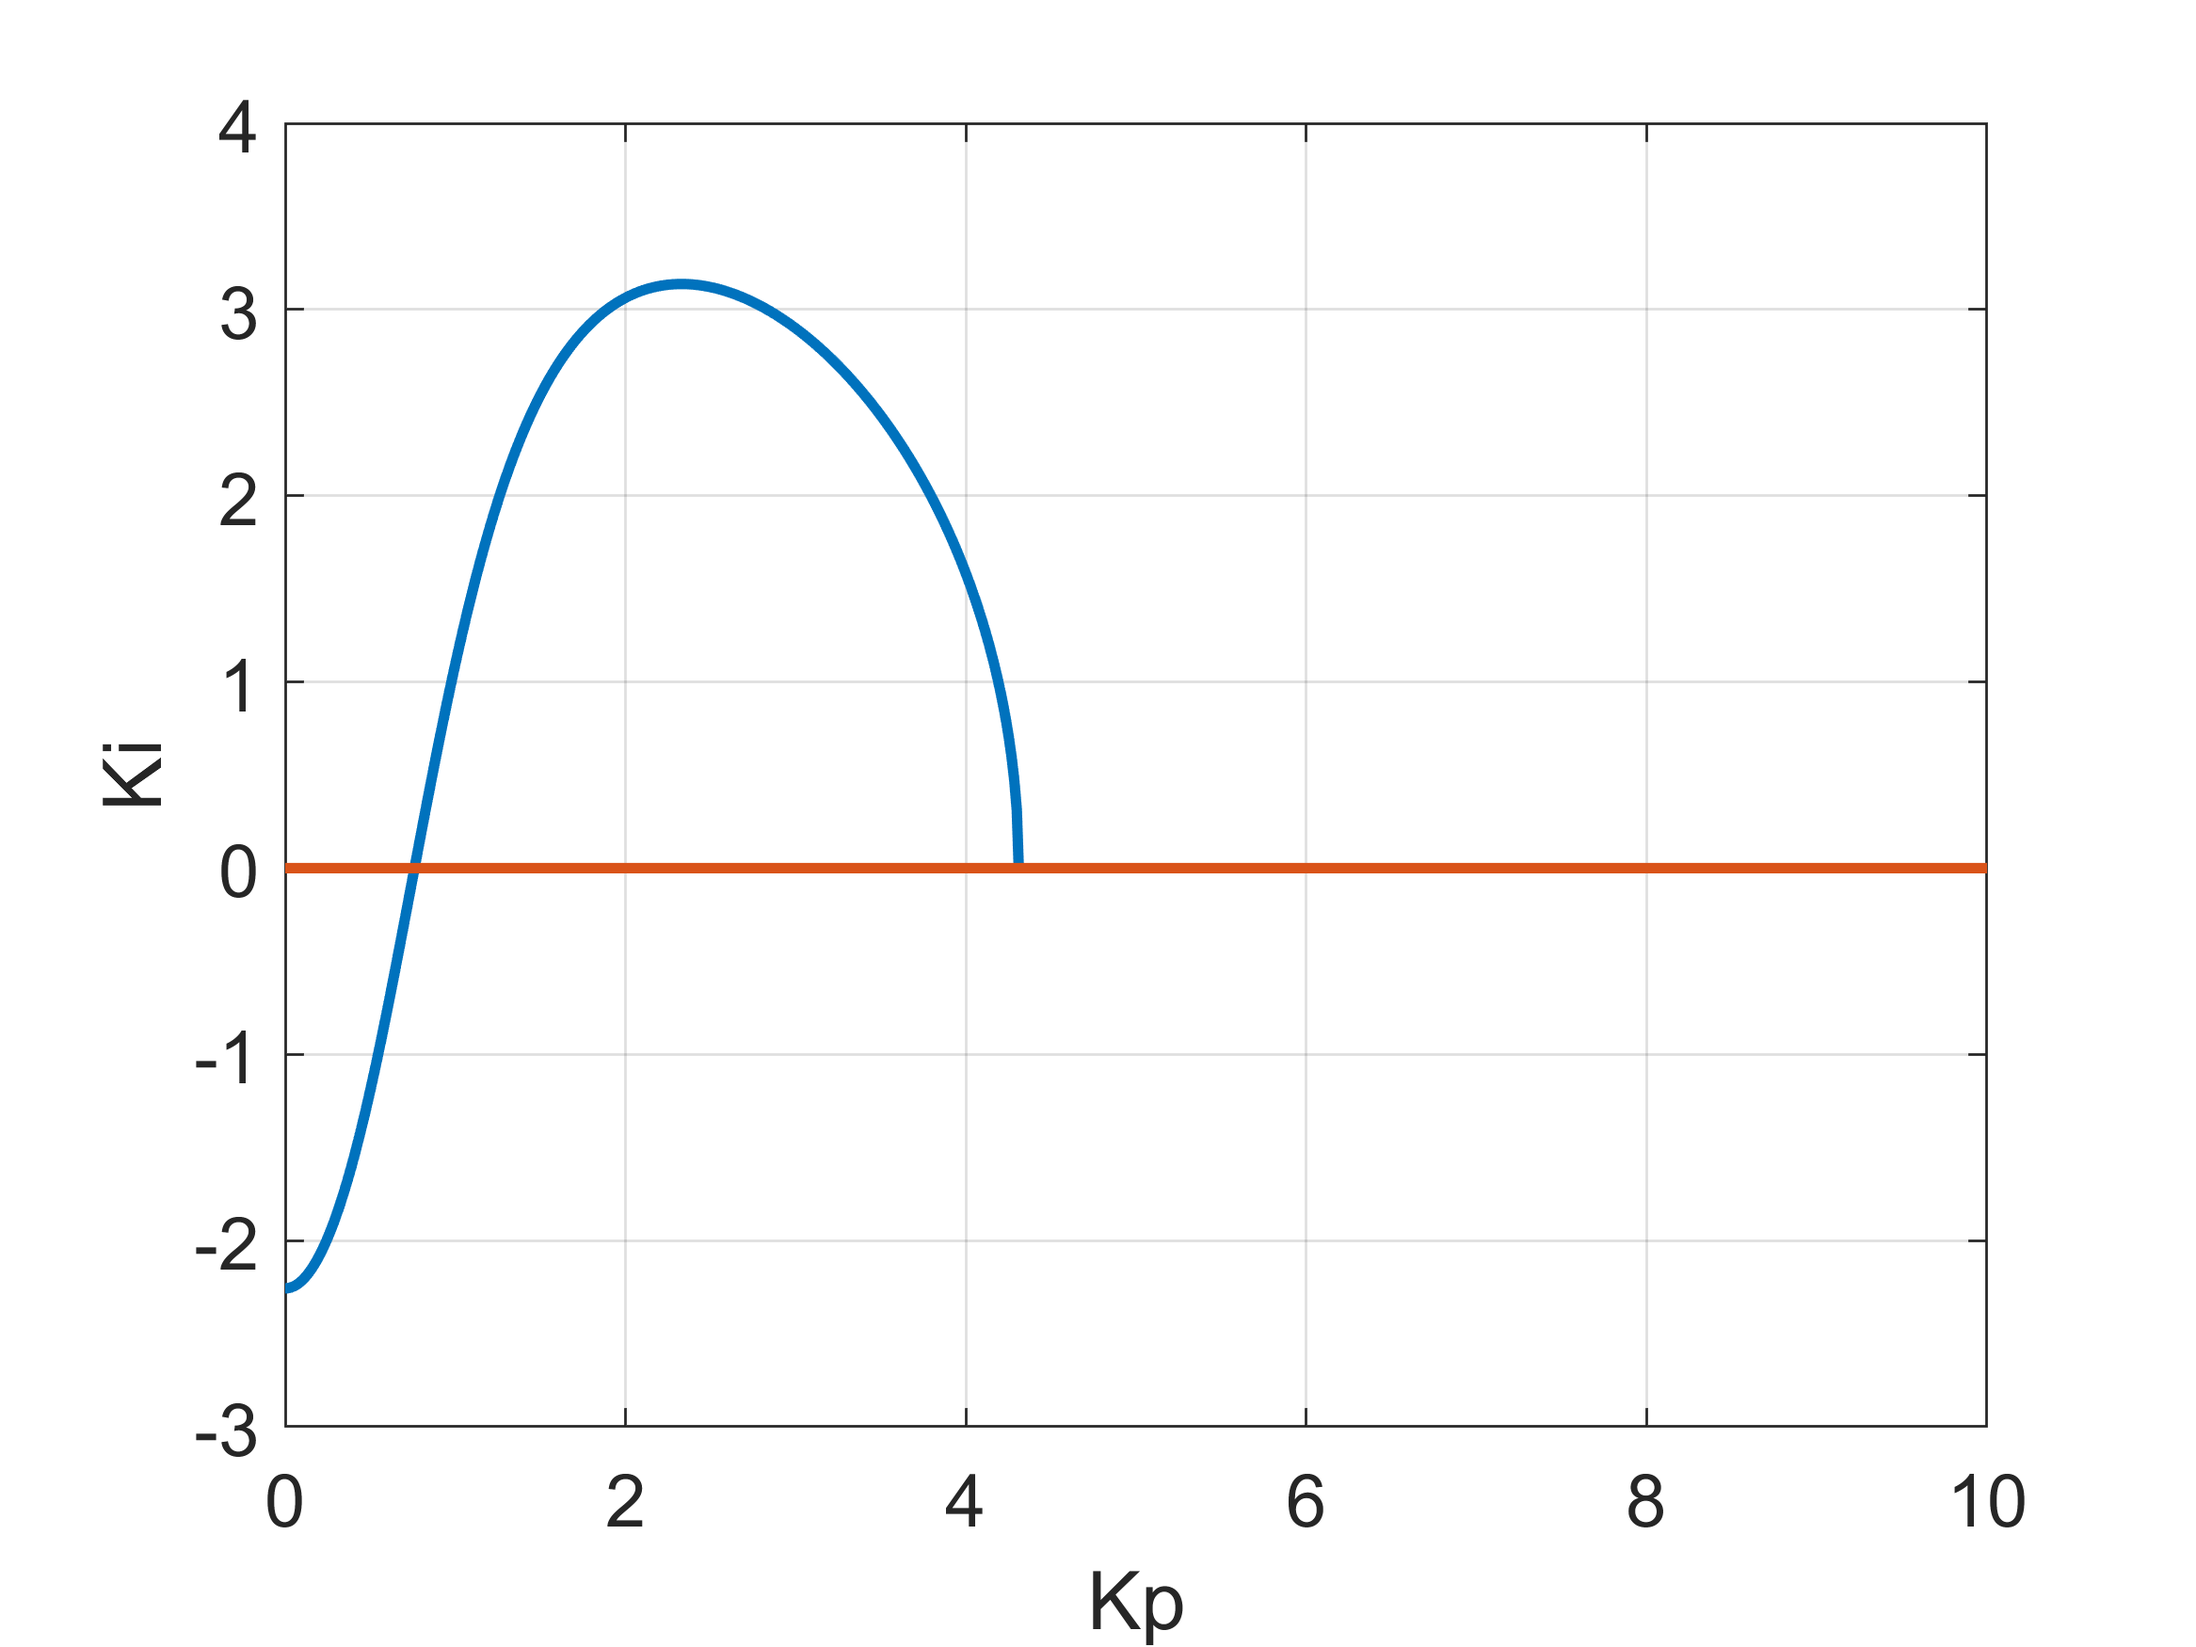
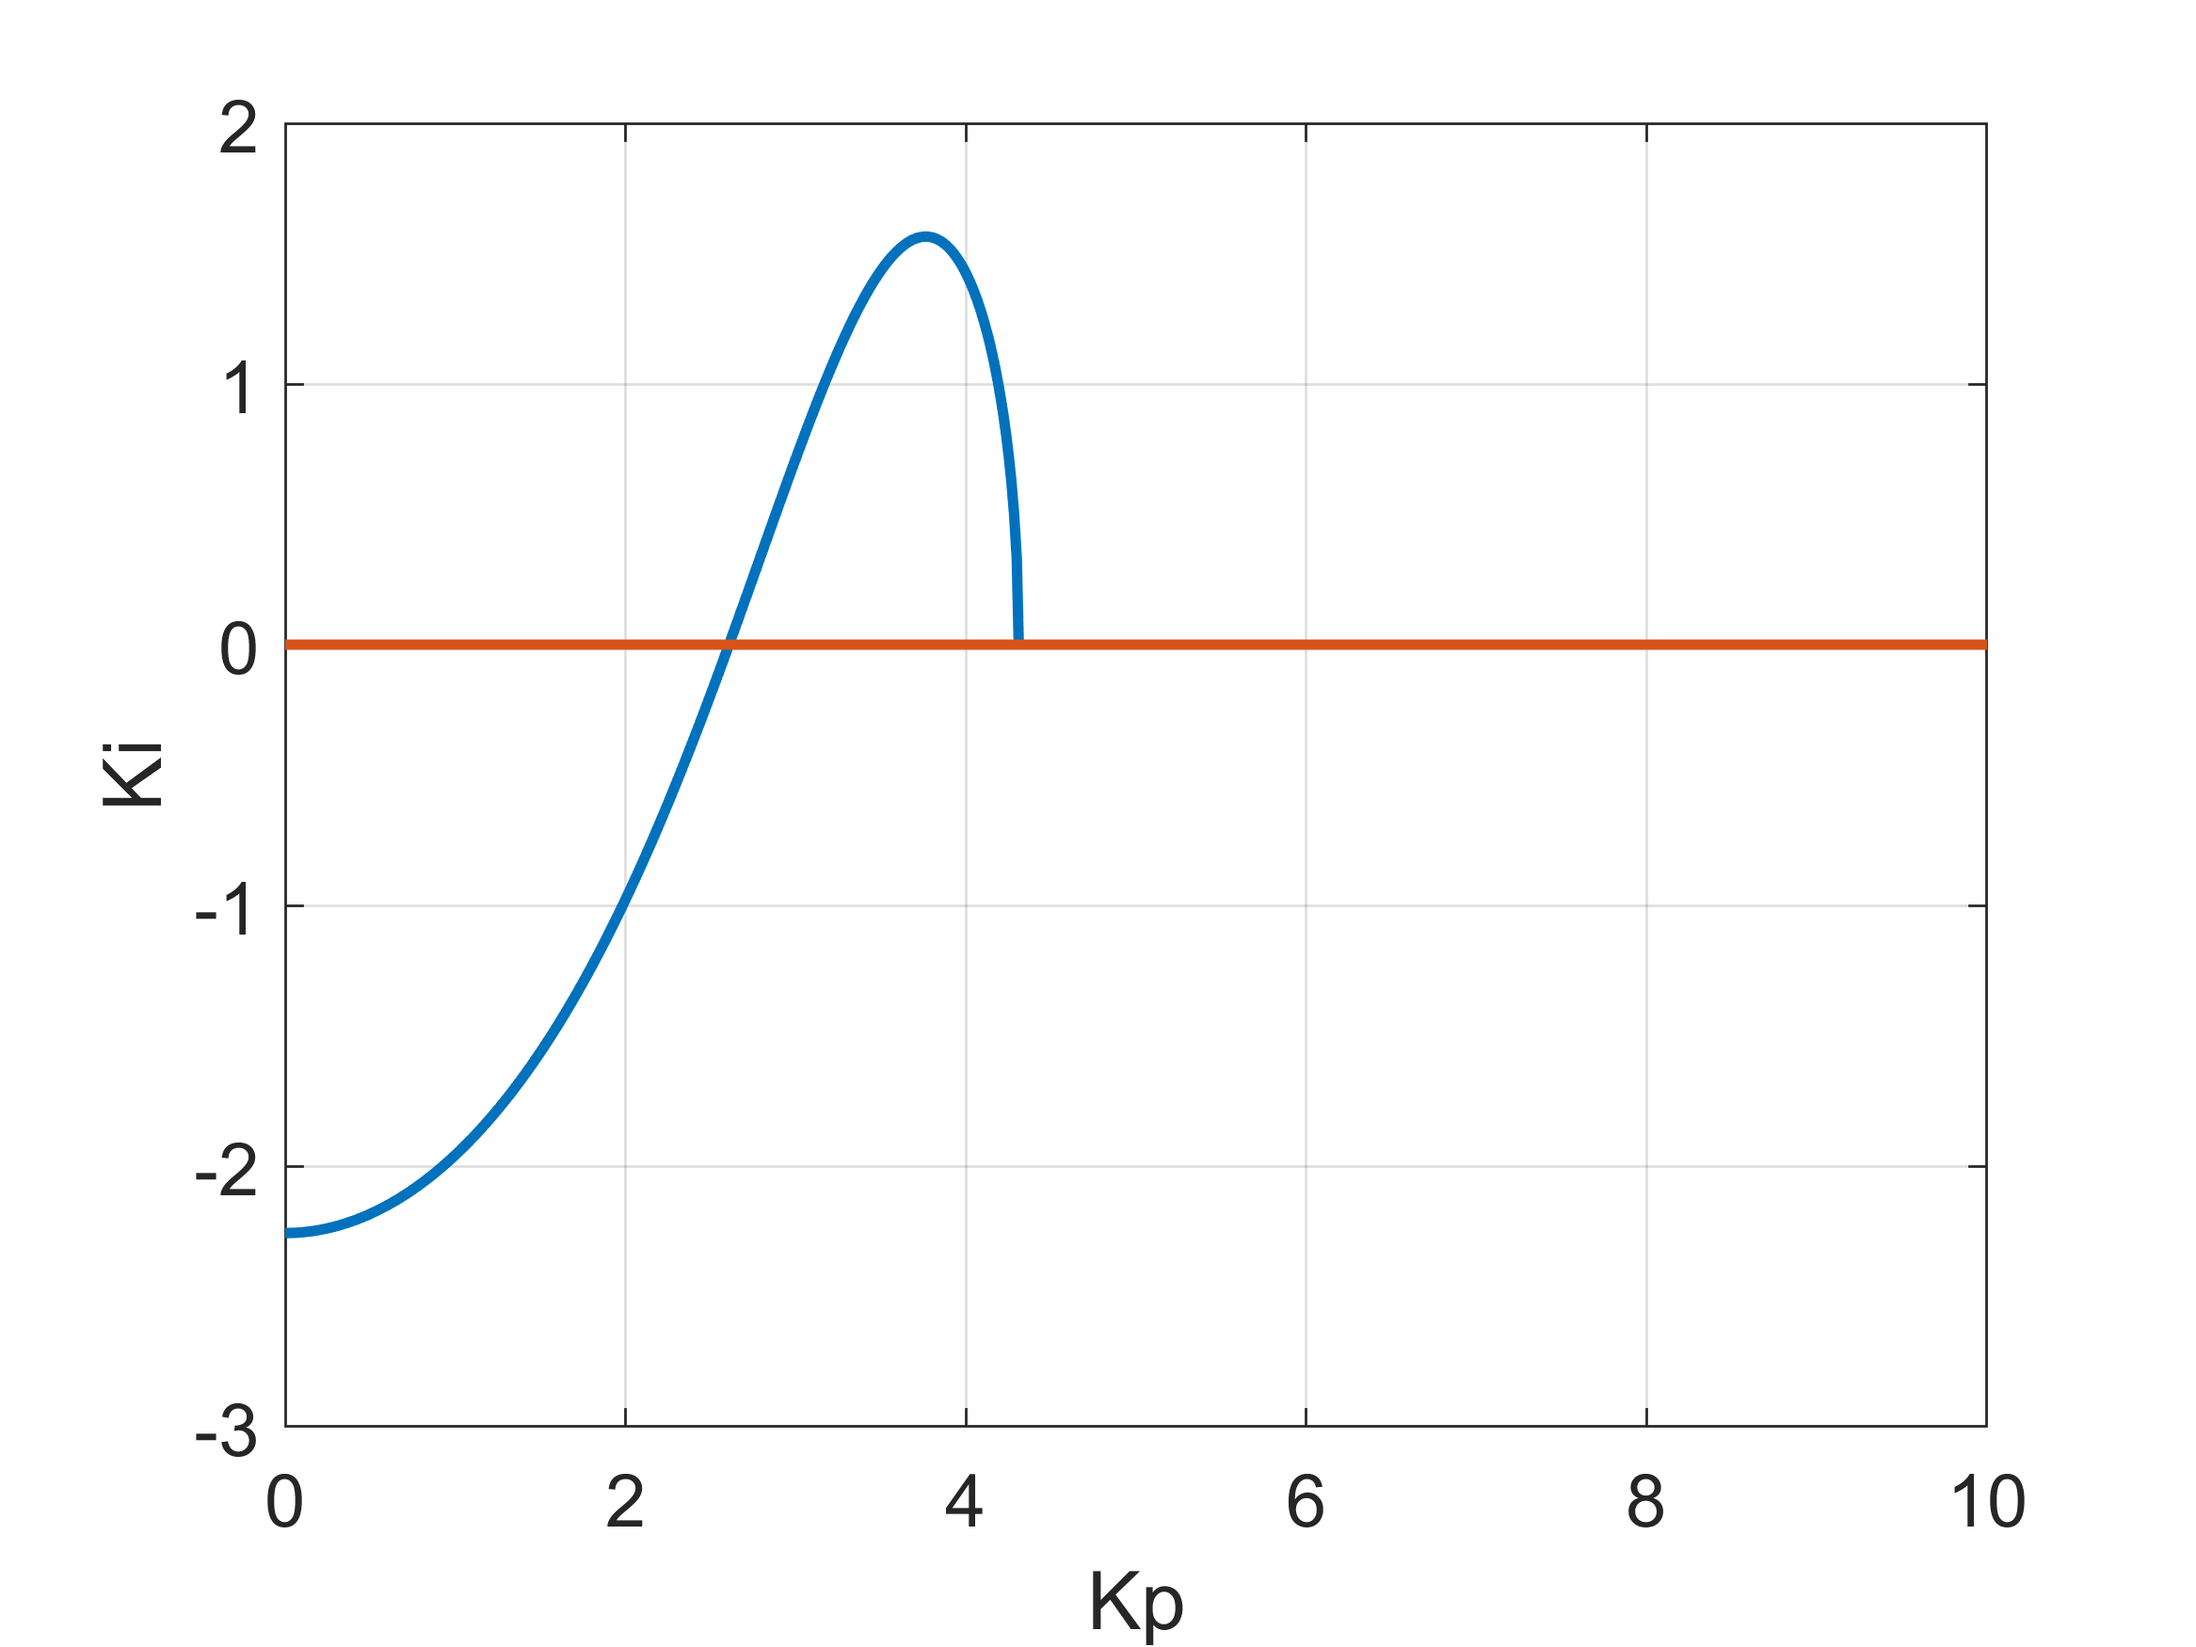
Update calcular custo

diff --git a/graficosControladorAnalitico.m b/graficosControladorAnalitico.m
@@ -6,8 +6,8 @@ a = 0.2320;
 Tb = 86400*30;
 wb = 2*pi./Tb;
 
-Kp = 0:1e-4:1e1;
-Ki1 = (pi/180).*(90 - PM + atand(Kp.^2)).*(sqrt((1-a.^2.*Kp.^2)/a.^2));
+Kp = 0:1e-5:1e1;
+Ki1 = (pi/180).*(90 - PM + atand(a^2*Kp.^2./(1 - a.^2*Kp.^2))).*(sqrt((1-a.^2.*Kp.^2)/a.^2));
 Ki2 = sqrt(2.*wb.^2/a.^2 - (Kp.*wb).^2);
 
 plot(Kp, [Ki1; Ki2], 'LineWidth', 2);
@@ -18,5 +18,5 @@ grid on;
 print -dpng -r400 degrau_thetal.png % para usuarios de Word
 % print -depsc2 degrau_thetal.eps % para usuarios de LaTeX
 
-Kp = 0.7598;
-Ki = 1.46613e-5;
+Kp = 2.60777;
+Ki = 1.33561e-5;

diff --git a/obterRequisitos.m b/obterRequisitos.m
@@ -2,6 +2,7 @@ function requisitos = obterRequisitos()
 % requistos = obterRequisitos() obtem os requisitos
 
 requisitos.PM = 120;
+requisitos.GM = 20;
 Tb = 86400*30;
 requisitos.wb = 2*pi./Tb;
 end

diff --git a/avaliarControladorAnalitico.m b/avaliarControladorAnalitico.m
@@ -3,8 +3,8 @@ planta = obterPlantaProjeto();
 s = tf('s');
 % PI
 
-Kp = 0.7598;
-Ki = 1.46613e-5;
+Kp = 1.9123;
+Ki = 1.2187e-05;
 tau = 86400/2;
 C = Ki/s + Kp;
 % Lag
